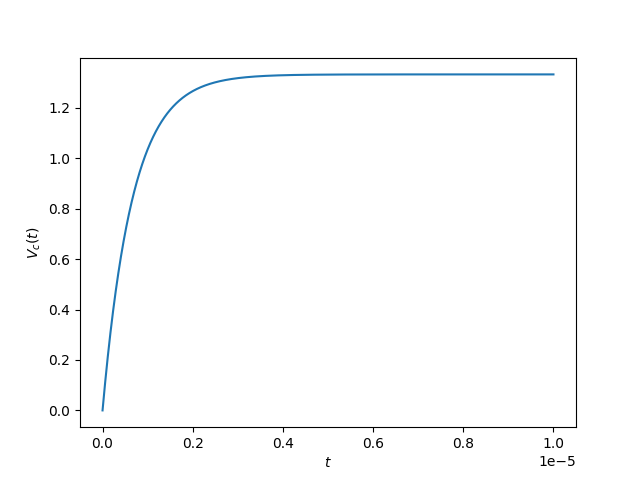
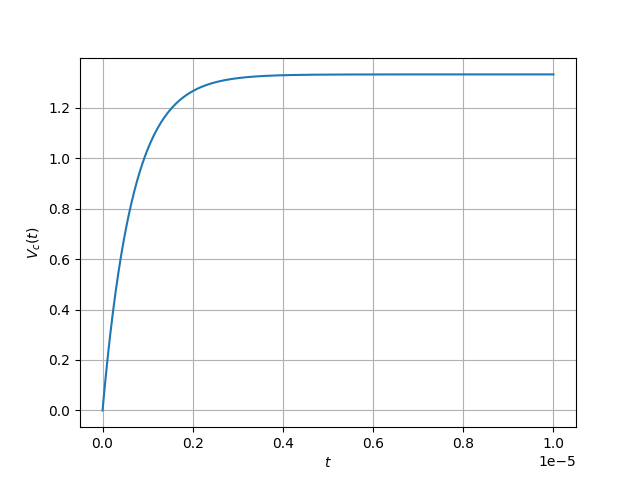
modified Circuits

diff --git a/charger/main.tex b/charger/main.tex
@@ -1,0 +1,181 @@
+\documentclass[journal,12pt,twocolumn]{IEEEtran}
+%
+\usepackage{setspace}
+\usepackage{gensymb}
+\usepackage{xcolor}
+\usepackage{caption}
+\usepackage{circuitikz}
+%\usepackage{subcaption}
+%\doublespacing
+\singlespacing
+\usepackage{float}
+%\usepackage{graphicx}
+%\usepackage{amssymb}
+%\usepackage{relsize}
+\usepackage[cmex10]{amsmath}
+\usepackage{mathtools}
+%\usepackage{amsthm}
+%\interdisplaylinepenalty=2500
+%\savesymbol{iint}
+%\usepackage{txfonts}
+%\restoresymbol{TXF}{iint}
+%\usepackage{wasysym}
+\usepackage{hyperref}
+\usepackage{amsthm}
+\usepackage{mathrsfs}
+\usepackage{txfonts}
+\usepackage{stfloats}
+\usepackage{cite}
+\usepackage{cases}
+\usepackage{subfig}
+%\usepackage{xtab}
+\usepackage{longtable}
+\usepackage{multirow}
+%\usepackage{algorithm}
+%\usepackage{algpseudocode}
+%\usepackage{enumerate}
+\usepackage{enumitem}
+\usepackage{mathtools}
+%\usepackage{iithtlc}
+%\usepackage[framemethod=tikz]{mdframed}
+\usepackage{listings}
+\let\vec\mathbf
+
+
+%\usepackage{stmaryrd}
+
+
+%\usepackage{wasysym}
+%\newcounter{MYtempeqncnt}
+\DeclareMathOperator*{\Res}{Res}
+%\renewcommand{\baselinestretch}{2}
+\renewcommand\thesection{\arabic{section}}
+\renewcommand\thesubsection{\thesection.\arabic{subsection}}
+\renewcommand\thesubsubsection{\thesubsection.\arabic{subsubsection}}
+
+\renewcommand\thesectiondis{\arabic{section}}
+\renewcommand\thesubsectiondis{\thesectiondis.\arabic{subsection}}
+\renewcommand\thesubsubsectiondis{\thesubsectiondis.\arabic{subsubsection}}
+
+%\renewcommand{\labelenumi}{\textbf{\theenumi}}
+%\renewcommand{\theenumi}{P.\arabic{enumi}}
+
+% correct bad hyphenation here
+\hyphenation{op-tical net-works semi-conduc-tor}
+
+\lstset{
+language=Python,
+frame=single, 
+breaklines=true,
+columns=fullflexible
+}
+
+
+
+\begin{document}
+%
+
+\theoremstyle{definition}
+\newtheorem{theorem}{Theorem}[section]
+\newtheorem{problem}{Problem}
+\newtheorem{proposition}{Proposition}[section]
+\newtheorem{lemma}{Lemma}[section]
+\newtheorem{corollary}[theorem]{Corollary}
+\newtheorem{example}{Example}[section]
+\newtheorem{definition}{Definition}[section]
+%\newtheorem{algorithm}{Algorithm}[section]
+%\newtheorem{cor}{Corollary}
+\newcommand{\BEQA}{\begin{eqnarray}}
+\newcommand{\EEQA}{\end{eqnarray}}
+\newcommand{\define}{\stackrel{\triangle}{=}}
+\newcommand{\myvec}[1]{\ensuremath{\begin{pmatrix}#1\end{pmatrix}}}
+\newcommand{\mydet}[1]{\ensuremath{\begin{vmatrix}#1\end{vmatrix}}}
+
+\bibliographystyle{IEEEtran}
+%\bibliographystyle{ieeetr}
+
+\providecommand{\nCr}[2]{\,^{#1}C_{#2}} % nCr
+\providecommand{\nPr}[2]{\,^{#1}P_{#2}} % nPr
+\providecommand{\mbf}{\mathbf}
+\providecommand{\pr}[1]{\ensuremath{\Pr\left(#1\right)}}
+\providecommand{\qfunc}[1]{\ensuremath{Q\left(#1\right)}}
+\providecommand{\sbrak}[1]{\ensuremath{{}\left[#1\right]}}
+\providecommand{\lsbrak}[1]{\ensuremath{{}\left[#1\right.}}
+\providecommand{\rsbrak}[1]{\ensuremath{{}\left.#1\right]}}
+\providecommand{\brak}[1]{\ensuremath{\left(#1\right)}}
+\providecommand{\lbrak}[1]{\ensuremath{\left(#1\right.}}
+\providecommand{\rbrak}[1]{\ensuremath{\left.#1\right)}}
+\providecommand{\cbrak}[1]{\ensuremath{\left\{#1\right\}}}
+\providecommand{\lcbrak}[1]{\ensuremath{\left\{#1\right.}}
+\providecommand{\rcbrak}[1]{\ensuremath{\left.#1\right\}}}
+\theoremstyle{remark}
+\newtheorem{rem}{Remark}
+\newcommand{\sgn}{\mathop{\mathrm{sgn}}}
+\providecommand{\abs}[1]{\left\vert#1\right\vert}
+\providecommand{\res}[1]{\Res\displaylimits_{#1}} 
+\providecommand{\norm}[1]{\lVert#1\rVert}
+\providecommand{\mtx}[1]{\mathbf{#1}}
+\providecommand{\mean}[1]{E\left[ #1 \right]}
+\providecommand{\fourier}{\overset{\mathcal{F}}{ \rightleftharpoons}}
+\providecommand{\ztrans}{\overset{\mathcal{Z}}{ \rightleftharpoons}}
+
+%\providecommand{\hilbert}{\overset{\mathcal{H}}{ \rightleftharpoons}}
+\providecommand{\system}{\overset{\mathcal{H}}{ \longleftrightarrow}}
+	%\newcommand{\solution}[2]{\textbf{Solution:}{#1}}
+\newcommand{\solution}{\noindent \textbf{Solution: }}
+\providecommand{\dec}[2]{\ensuremath{\overset{#1}{\underset{#2}{\gtrless}}}}
+\numberwithin{equation}{section}
+%\numberwithin{equation}{subsection}
+%\numberwithin{problem}{subsection}
+%\numberwithin{definition}{subsection}
+\makeatletter
+\@addtoreset{figure}{problem}
+\makeatother
+
+\let\StandardTheFigure\thefigure
+%\renewcommand{\thefigure}{\theproblem.\arabic{figure}}
+\renewcommand{\thefigure}{\theproblem}
+
+
+%\numberwithin{figure}{subsection}
+
+\def\putbox#1#2#3{\makebox[0in][l]{\makebox[#1][l]{}\raisebox{\baselineskip}[0in][0in]{\raisebox{#2}[0in][0in]{#3}}}}
+     \def\rightbox#1{\makebox[0in][r]{#1}}
+     \def\centbox#1{\makebox[0in]{#1}}
+     \def\topbox#1{\raisebox{-\baselineskip}[0in][0in]{#1}}
+     \def\midbox#1{\raisebox{-0.5\baselineskip}[0in][0in]{#1}}
+
+\vspace{3cm}
+
+\title{ 
+%\logo{
+%}
+Charger Lab Report
+%	\logo{Octave for Math Computing }
+}
+%\title{
+%	\logo{Matrix Analysis through Octave}{\begin{center}\includegraphics[scale=.24]{tlc}\end{center}}{}{HAMDSP}
+%}
+
+
+
+\author{ Mannem Charan AI21BTECH11019 %<-this  stops a space
+}
+\maketitle
+
+
+\tableofcontents
+
+
+\renewcommand{\thefigure}{\theenumi}
+\renewcommand{\thetable}{\theenumi}
+
+
+
+\bigskip
+
+\begin{abstract}
+This manual provides the lab report of realisation of 5V charger using low pass analog filter. 
+\end{abstract}
+
+

diff --git a/Circuits and Transforms/Codes/2.7.py b/Circuits and Transforms/Codes/2.7.py
@@ -17,10 +17,10 @@ def V_c(t):
 t = np.linspace(0,0.00001,1000000)
 
 vec_V_c  = scipy.vectorize(V_c)
-
+plt.grid()
 plt.plot(t,vec_V_c(t))
 plt.xlabel("$t$")
 plt.ylabel("$V_c(t)$")
-plt.savefig("Figs/2.7.png")
+plt.savefig("../Figs/2.7.png")
 plt.show()
 
